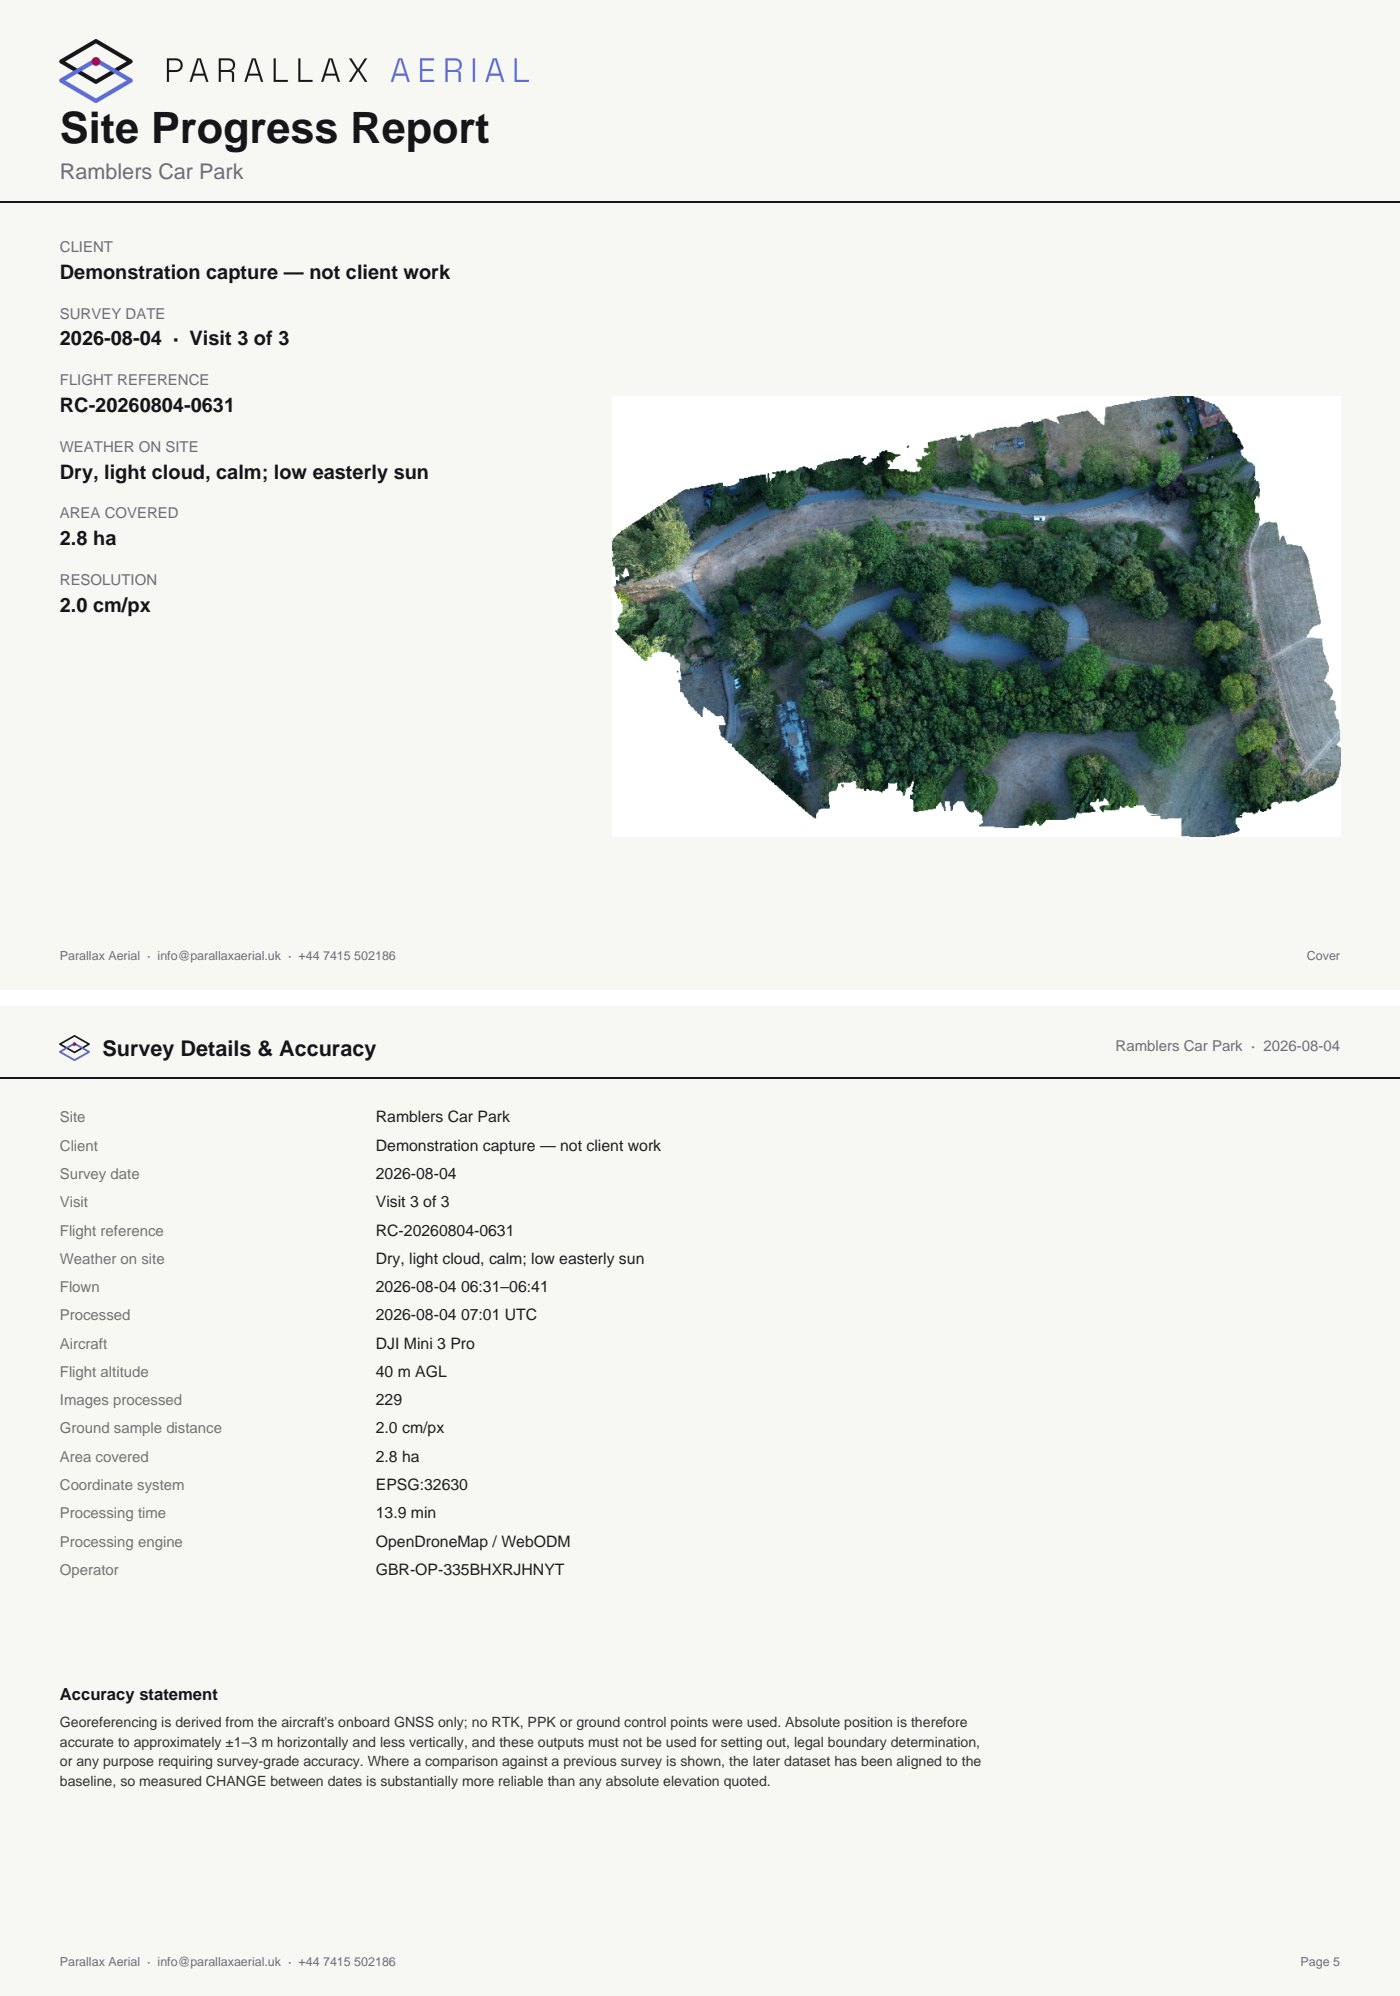
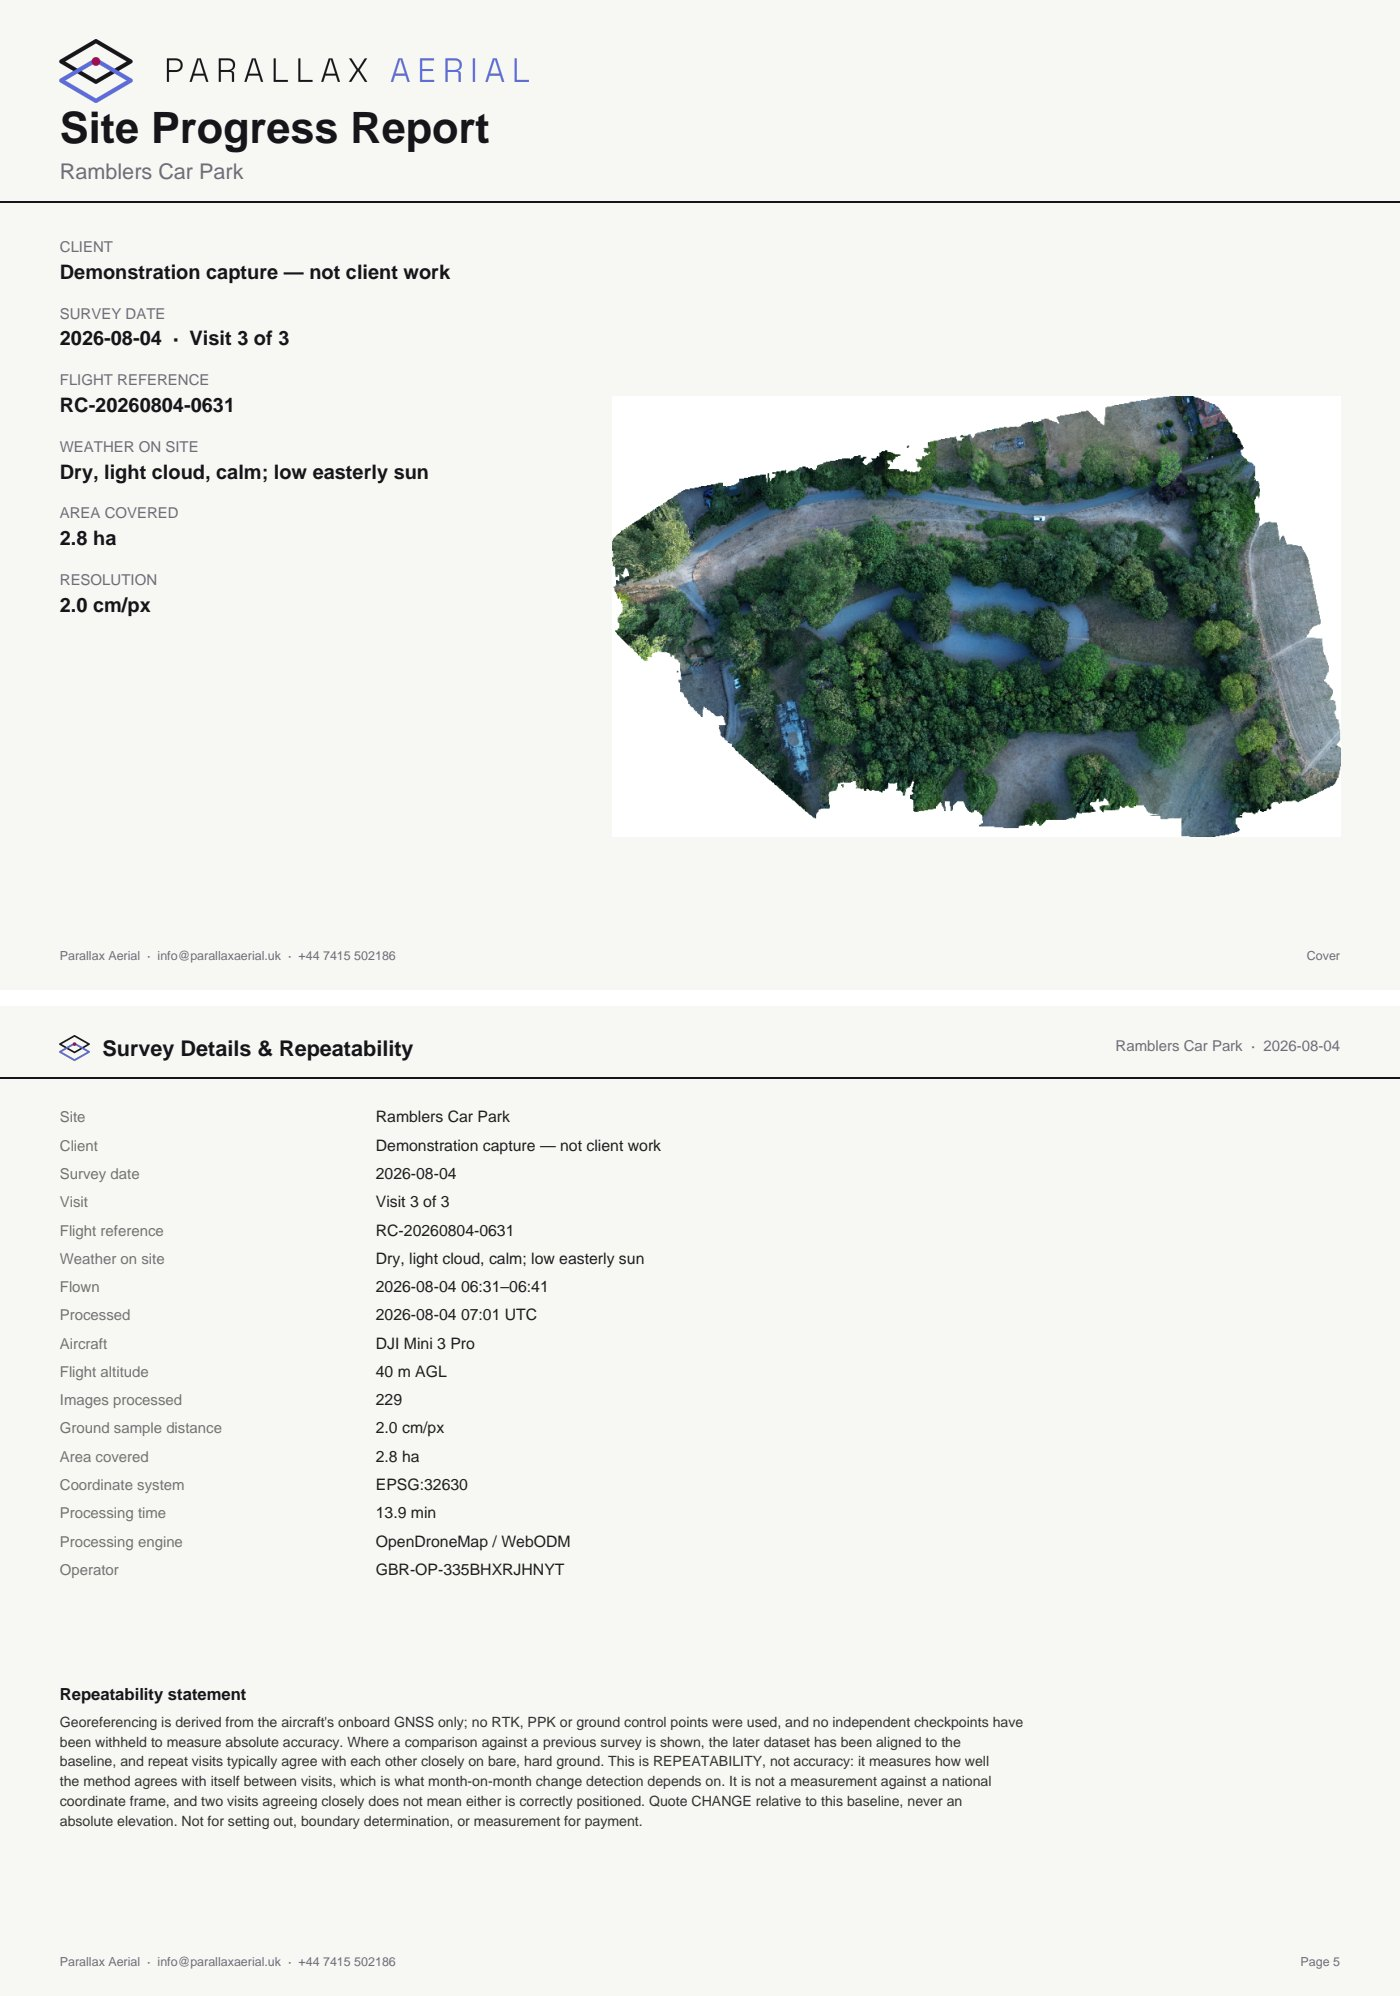
Relabel the accuracy statement as repeatability
The 0.24 m / 0.31 m figure measures agreement between repeat visits, not
agreement with a coordinate reference frame -- repeatability, not accuracy.
Calling a repeat-flight result an accuracy statement was the error, named
publicly by a commenter (a registered surveyor) under the proof-difference-map
LinkedIn post. Relabelled everywhere it appears on the site: the hero spec
strip, the limits section, the capability statement, the article, and meta
descriptions. Also: new disclaimer wording (not for setting out, boundary
determination, or measurement for payment), the rolling-shutter/doming
limitations line, and regenerated sample-progress-pack.pdf + its preview
screenshot from the pipeline repo, which carries the same relabel.

Full brief: HANDOVER.md Corrected Phase 0 (drone-delivery-tool repo).

Changed region(s): [[0.0307, 0.8387, 0.7064, 0.9319], [0.215, 0.497, 0.2764, 0.5281]]

diff --git a/index.html b/index.html
@@ -535,7 +535,7 @@ table.matrix{border-collapse:collapse; width:100%; min-width:900px; font-size:14
     <div class="spec">
       <div class="spec__c"><div class="spec__k">On your desk</div><div class="spec__v">3rd working day<small>of the month · 48 h from a flight</small></div></div>
       <div class="spec__c"><div class="spec__k">Output</div><div class="spec__v">Orthomosaic JPG<small>labelled stills · PDF pack</small></div></div>
-      <div class="spec__c"><div class="spec__k">Accuracy</div><div class="spec__v">Measured, published<small>negative results included</small></div></div>
+      <div class="spec__c"><div class="spec__k">Repeatability</div><div class="spec__v">Measured, published<small>negative results included</small></div></div>
       <div class="spec__c"><div class="spec__k">Base</div><div class="spec__v">Slough, Berkshire<small>1 hour travel included</small></div></div>
     </div>
   </div>
@@ -645,10 +645,10 @@ table.matrix{border-collapse:collapse; width:100%; min-width:900px; font-size:14
     <figure class="plate r-a4">
       <div class="plate__frame">
         <img src="media/ramblers-pack-spread.jpg" width="1400" height="1996" loading="lazy"
-             alt="Two pages from the delivered PDF pack: the cover sheet, and the survey details and accuracy statement.">
+             alt="Two pages from the delivered PDF pack: the cover sheet, and the survey details and repeatability statement.">
       </div>
       <figcaption class="plate__cap">
-        <span>Pack spread &middot; Cover and accuracy statement &middot; Ramblers Car Park, 4 Aug 2026</span>
+        <span>Pack spread &middot; Cover and repeatability statement &middot; Ramblers Car Park, 4 Aug 2026</span>
       </figcaption>
       <p style="margin-top:14px">
         <a class="btn" href="media/sample-progress-pack.pdf" download>Download the sample &middot; PDF, 6 pages, 15&nbsp;MB</a>
@@ -795,18 +795,28 @@ table.matrix{border-collapse:collapse; width:100%; min-width:900px; font-size:14
       geometrically consistent visual record — enough for a progress meeting, a programme dispute,
       a roof condition check, or briefing a client. <strong>It is not survey-grade.</strong> It will
       not give you certified volumes or centimetre accuracy, and I won't put a number on a stockpile
-      from it. Where a job needs that, I hire an RTK aircraft, set ground control, and the accuracy
-      statement comes with the file.</p>
+      from it. Where a job needs that, I hire an RTK aircraft and set ground control.</p>
     <div class="figure">
-      <p class="figure__k">Here is mine.</p>
-      <p class="figure__v">On bare, hard ground, repeat surveys of the same site agree to within
-        <strong>0.24&nbsp;m for 90%</strong> of the surface and <strong>0.31&nbsp;m for 95%</strong>.</p>
-      <p class="figure__c">Measured on a validation site, 4 August 2026, by flying it twice and
-        comparing. Bare and hard ground only &mdash; vegetation and tree canopy are several times
-        worse. Percentiles, not RMS: the error distribution has heavy tails. Change is quoted
-        relative to the baseline survey, never as absolute levels. Not survey-grade, and not for
-        setting out.</p>
+      <p class="figure__k">Here is my repeatability statement.</p>
+      <p class="figure__v">On bare, hard ground, repeat surveys of the same site agree with
+        <strong>each other</strong> to within <strong>0.24&nbsp;m for 90%</strong> of the surface and
+        <strong>0.31&nbsp;m for 95%</strong>.</p>
+      <p class="figure__c">This is <em>repeatability</em>, not accuracy. It measures how well the
+        method agrees with itself between visits &mdash; the number that matters for month-on-month
+        comparison. It is not a measurement against a national coordinate frame, and it is not a
+        substitute for one: two flights can agree closely and both still sit off true level.</p>
+      <p class="figure__c" style="margin-top:12px">Measured on a validation site, 4 August 2026, by
+        flying it twice and comparing. Bare and hard ground only &mdash; vegetation and tree canopy
+        are several times worse. Percentiles, not RMS: the error distribution has heavy tails.
+        Change is quoted relative to the baseline survey, never as absolute levels. Not for setting
+        out, boundary determination, or measurement for payment.</p>
     </div>
+
+    <p class="figure__c" style="margin-top:20px; opacity:.96">Two limitations worth stating before
+      anyone asks. The Mini 3 Pro has a rolling shutter, which adds geometric error the faster the
+      aircraft moves. And the flight above was nadir-only, so systematic dome deformation across
+      the site is unquantified in that dataset &mdash; an independent checkpoint study, still to
+      come, is what will pin it down.</p>
 
     <!-- opacity lifted off .figure__c's .72: this paragraph carries the only link on an
          inverted panel, and at .72 it read as disabled text. -->
@@ -815,8 +825,9 @@ table.matrix{border-collapse:collapse; width:100%; min-width:900px; font-size:14
       <a href="/articles/how-accurate-is-a-sub-250g-drone" style="color:inherit; font-weight:500">how
       accurate is a sub-250&nbsp;g drone, really?</a></p>
 
-    <p class="limits__kick">If a supplier quotes you survey accuracy off a sub-250 g drone,
-      ask them for the accuracy statement.</p>
+    <p class="limits__kick">If a supplier quotes you survey accuracy off a sub-250 g drone, ask
+      for their repeatability statement: the same site, flown twice, with the difference
+      published.</p>
   </div>
 </section>
 

diff --git a/capability-statement.html b/capability-statement.html
@@ -4,12 +4,12 @@
 <meta charset="utf-8">
 <meta name="viewport" content="width=device-width, initial-scale=1">
 <title>Capability statement — Parallax Aerial</title>
-<meta name="description" content="Capability statement for procurement: construction progress monitoring, credentials, insurance, deliverables and accuracy statement. Quoted per site. Visual record, not survey-grade. Parallax Aerial, Slough, Berkshire.">
+<meta name="description" content="Capability statement for procurement: construction progress monitoring, credentials, insurance, deliverables and repeatability statement. Quoted per site. Visual record, not survey-grade. Parallax Aerial, Slough, Berkshire.">
 <meta name="robots" content="index,follow">
 <link rel="canonical" href="https://parallaxaerial.uk/capability-statement">
 
 <meta property="og:title" content="Capability statement — Parallax Aerial">
-<meta property="og:description" content="For procurement: construction progress monitoring, credentials, insurance, deliverables and accuracy statement. Quoted per site. Visual record, not survey-grade.">
+<meta property="og:description" content="For procurement: construction progress monitoring, credentials, insurance, deliverables and repeatability statement. Quoted per site. Visual record, not survey-grade.">
 <meta property="og:type" content="website">
 <meta property="og:url" content="https://parallaxaerial.uk/capability-statement">
 <meta property="og:image" content="https://parallaxaerial.uk/media/og-default.jpg">
@@ -259,19 +259,24 @@ figcaption{margin-top:4pt; font-family:var(--mono); font-size:7.5pt; letter-spac
     and a different accuracy statement) and FM / estates teams (roof and facade condition
     records, usually one-off rather than a monthly series).</p>
 
-  <h2>Accuracy, and what this kit will not do</h2>
+  <h2>Repeatability, and what this kit will not do</h2>
   <div class="limits">
-    <p class="fig">On bare, hard ground, repeat surveys of the same site agree to within
-      <strong>0.24&nbsp;m for 90%</strong> of the surface and <strong>0.31&nbsp;m for 95%</strong>.</p>
-    <p class="small" style="margin-bottom:8pt">Measured on a validation site on 4 August 2026 by flying
-      it twice and comparing. Bare and hard ground only &mdash; vegetation and tree canopy are several
-      times worse. Percentiles, not RMS: the error distribution has heavy tails. Change is quoted
-      relative to the baseline survey, never as absolute levels or heights AOD.</p>
-    <p style="margin:0">Standard visits fly a DJI Mini 3 Pro. Georeferencing is GNSS-only &mdash; no RTK,
-      no PPK, no ground control. <strong>These outputs are not survey-grade</strong>, must not be used
-      for setting out or boundary determination, and I will not put a number on a stockpile from them.
-      Where a job needs that, I hire an RTK aircraft, set ground control, and the written accuracy
-      statement comes with the file.</p>
+    <p class="fig">On bare, hard ground, repeat surveys of the same site agree with each other to
+      within <strong>0.24&nbsp;m for 90%</strong> of the surface and <strong>0.31&nbsp;m for
+      95%</strong>.</p>
+    <p class="small" style="margin-bottom:8pt">This is repeatability, not accuracy: it measures how
+      well the method agrees with itself between visits, not agreement with a coordinate reference
+      frame, which needs independent checkpoints withheld from processing. Measured on a validation
+      site on 4 August 2026 by flying it twice and comparing. Bare and hard ground only &mdash;
+      vegetation and tree canopy are several times worse. Percentiles, not RMS: the error
+      distribution has heavy tails. Change is quoted relative to the baseline survey, never as
+      absolute levels or heights AOD.</p>
+    <p style="margin:0">Standard visits fly a DJI Mini 3 Pro, which has a rolling shutter, and the
+      validation flight above was nadir-only, so dome deformation across the site is unquantified
+      in that dataset. Georeferencing is GNSS-only &mdash; no RTK, no PPK, no ground control.
+      <strong>These outputs are not survey-grade</strong>, must not be used for setting out,
+      boundary determination, or measurement for payment, and I will not put a number on a
+      stockpile from them. Where a job needs that, I hire an RTK aircraft and set ground control.</p>
   </div>
 
   <h2>Demonstration capture</h2>
@@ -289,8 +294,8 @@ figcaption{margin-top:4pt; font-family:var(--mono); font-size:7.5pt; letter-spac
     </figure>
     <figure>
       <div class="frame frame--pack"><img src="media/ramblers-pack-spread.jpg" width="1400" height="1996"
-           alt="Cover and accuracy pages from the delivered PDF pack."></div>
-      <figcaption>Pack spread &middot; cover and accuracy statement, as delivered.<br>
+           alt="Cover and repeatability pages from the delivered PDF pack."></div>
+      <figcaption>Pack spread &middot; cover and repeatability statement, as delivered.<br>
         The full pack downloads from the homepage.</figcaption>
     </figure>
   </div>

diff --git a/articles/how-accurate-is-a-sub-250g-drone.html b/articles/how-accurate-is-a-sub-250g-drone.html
@@ -820,7 +820,7 @@ dl.spec dd{margin:0; font-family:var(--mono); font-size:14px; text-align:right}
       <li><strong>The 2.7× volume over-read was measured on a shoebox.</strong> Whether it shrinks
         at stockpile scale is untested here and is not claimed.</li>
       <li><strong>None of it is survey-grade,</strong> and nothing here should be used for setting
-        out.</li>
+        out, boundary determination, or measurement for payment.</li>
     </ul>
   </div>
   <p class="tnote">Figures last updated 9 August 2026. If any of them change — including in the
